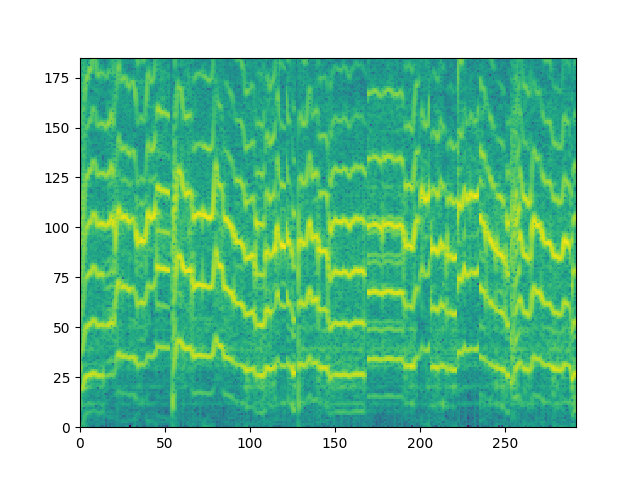
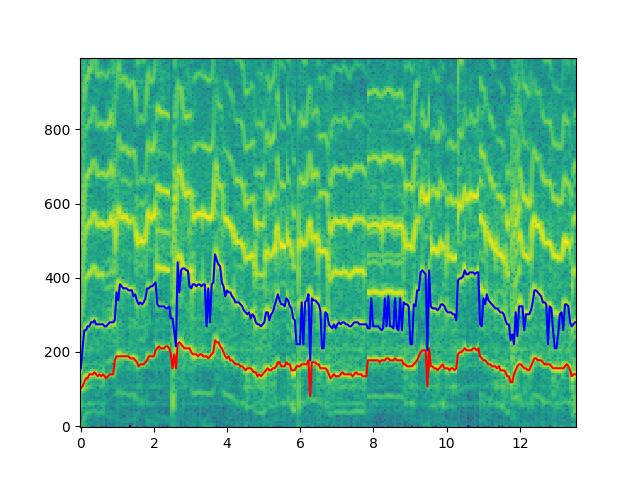
peak detection

diff --git a/stft.py b/stft.py
@@ -1,0 +1,69 @@
+import math
+import numpy as np
+from scipy.signal import get_window
+from scipy.fft import fft
+
+def compute_spectrogram(signal, sample_rate, window_size=8191, fft_buffer_size=8192, hop_length=2048):
+    """
+    Compute the spectrogram of an audio signal.
+
+    Parameters:
+    signal (array_like): The input signal.
+    sample_rate (int): The sampling rate of the input signal.
+    window_size (int, optional): The size of the analysis window.
+    fft_buffer_size (int, optional): The size of the FFT buffer.
+    hop_length (int, optional): The hop length between consecutive frames.
+
+    Returns:
+    spectrogram (array_like): Spectrogram of the input signal.
+    """
+
+    # Compute relevant parameters
+    half_window_plus_one = (window_size + 1) // 2
+    half_window = window_size // 2
+
+    # Generate a Hamming window for windowing the signal
+    window = get_window('hamming', window_size)
+    window /= sum(window)
+
+    # Define upper bound for relevant frequencies
+    cutoff_frequency = int(1000 * fft_buffer_size / sample_rate)
+
+    # Initialize an empty array for the spectrogram
+    spectrogram = []
+    
+    # Initialize frame index
+    frame_index = 0
+
+    # Iterate through each frame
+    while frame_index < len(signal) - window_size:
+        # Extract the current frame from the audio
+        frame = signal[frame_index: frame_index + window_size]
+        
+        # Compute the root mean square (RMS) value of the current frame
+        rms_value = np.sqrt(np.dot(frame, frame) / window_size)
+        
+        # Discard frames with very low RMS for the spectrogram
+        if rms_value > 0.1:
+            # Normalize the frame
+            frame = frame / np.max(abs(frame))
+            frame = frame * window
+
+            # Apply zero-phase windowing to the frame
+            fft_buffer = np.zeros(fft_buffer_size)
+            fft_buffer[:half_window_plus_one] = frame[half_window:] 
+            fft_buffer[fft_buffer_size - half_window:] = frame[:half_window]
+
+            # Compute the log magnitude spectrum of the current frame
+            spectrum = fft(fft_buffer)
+            magnitude_spectrum = abs(spectrum)
+            magnitude_spectrum[magnitude_spectrum < np.finfo(float).eps] = np.finfo(float).eps
+            log_magnitude_spectrum = 10 * np.log10(magnitude_spectrum)
+
+            # Append the log magnitude spectrum to the spectrogram
+            spectrogram.append(log_magnitude_spectrum[:cutoff_frequency])
+
+        # Move to the next frame
+        frame_index += hop_length
+
+    return np.array(spectrogram)

diff --git a/peak_detection.py b/peak_detection.py
@@ -1,0 +1,52 @@
+import numpy as np
+from scipy.signal import savgol_filter
+
+def detect_peaks(spectrogram, sampling_rate, fft_size=8192):
+    """
+    Detect peaks in the spectrogram.
+
+    Parameters:
+    spectrogram (array_like): Spectrogram of the audio signal.
+    sampling_rate (int): Sampling frequency of the audio signal.
+    fft_size (int): Size of the FFT.
+    cutoff_frequency (int): Cutoff frequency.
+
+    Returns:
+    peak_frequencies (list): List of peak frequencies.
+    peak_magnitudes (list): List of peak magnitudes.
+    """
+
+    peak_frequencies = []
+    peak_magnitudes = []
+
+    for frame_index in range(len(spectrogram)):
+        smoothed_spectrum = savgol_filter(spectrogram[frame_index], window_length=15, polyorder=5)
+        
+        current_peak_frequencies = []
+        current_peak_magnitudes = []
+        
+        index = 15
+        while index < len(smoothed_spectrum) - 1:
+            if len(current_peak_frequencies) == 4:
+                break
+                    
+            if smoothed_spectrum[index] < -25: 
+                index += 1
+                continue
+
+            if smoothed_spectrum[index - 1] < smoothed_spectrum[index] and smoothed_spectrum[index] > smoothed_spectrum[index + 1]:
+                segment = np.zeros(len(smoothed_spectrum)) - 100
+                segment[index:index + 15] = smoothed_spectrum[index:index + 15]
+                
+                current_peak_frequencies.append(np.argmax(segment) * sampling_rate / fft_size)
+                current_peak_magnitudes.append(smoothed_spectrum[np.argmax(segment)])
+                
+                index = np.argmax(segment) + 10
+                
+            else:
+                index += 1
+
+        peak_frequencies.append(current_peak_frequencies)
+        peak_magnitudes.append(current_peak_magnitudes)
+
+    return peak_frequencies, peak_magnitudes

diff --git a/main.py b/main.py
@@ -2,10 +2,10 @@ from flask import Flask, render_template, request, send_file
 import numpy as np
 from scipy.io import wavfile
 
-from spectrogram import computeSpectrogram
+from stft import compute_spectrogram
+from peak_detection import detect_peaks
 
 import matplotlib.pyplot as plt
-import io
 
 app = Flask(__name__)
 app.config['MAX_CONTENT_LENGTH'] = 64 * 1024 * 1024
@@ -19,16 +19,22 @@ def process():
     file = request.files['input']
 
     sampleRate, audio = wavfile.read(file)
-    
 
     audio = audio / np.max(abs(audio))
 
-    spectrogram = np.array(computeSpectrogram(audio, sampleRate))
+    spectrogram = compute_spectrogram(audio, sampleRate)
 
-    plt.pcolormesh(spectrogram.T)
+    peak_frequencies, peak_magnitudes = detect_peaks(spectrogram, sampleRate)
+
+    timeSteps = np.arange(len(spectrogram)) * 2048 / sampleRate
+    frequencies = np.arange(len(spectrogram[0])) * sampleRate / 8192
+    plt.pcolormesh(timeSteps, frequencies, spectrogram.T)
+    plt.plot(timeSteps, [p[0] for p in peak_frequencies], c='r')
+    plt.plot(timeSteps, [p[1] for p in peak_frequencies], c='b')
 
     plt.savefig('spectrogram.png')
 
+    #return str(len(peak_frequencies) - len(spectrogram))
     return send_file('spectrogram.png', mimetype='image/png')
 
 if __name__ == '__main__':

diff --git a/notebooks/feature-extraction.py b/notebooks/feature-extraction.py
@@ -62,9 +62,13 @@ for file in filenames:
         plt.plot(mX)
         plt.show()
 
+        dfts.append(mX)
+
         peaks = []
         for i in range(4):
-            peaks.append(float(input()))
+            peaks.append(int(input()))
+
+        peakFreqs.append(peaks)   
 
         l += 10 * H
 
